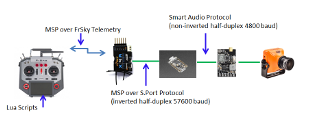
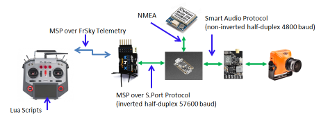
Added GPS

Changed region(s): [[0.0, 0.05, 0.9903, 0.95], [0.3495, 0.75, 0.699, 0.9], [0.4078, 0.1, 0.4951, 0.15]]

diff --git a/content/avrsa/avrsa.md b/content/avrsa/avrsa.md
@@ -17,6 +17,9 @@ This project is documented [here](https://github.com/c-devine/AvrSmartAudio) on 
 
 [![AvrSA](img/avrsa-overview-small.png)](https://raw.githubusercontent.com/c-devine/AvrSmartAudio/snapshots/assets/img/overview.png?raw=true "Overview")
 
+
+[![GPS](img/radio-gps-small.png)](https://raw.githubusercontent.com/c-devine/AvrSmartAudio/snapshots/assets/img/radio-gps.png?raw=true "Overview")
+
 ### Video
 
 [![Demo](img/youtube-prototype-small.png?raw=true)](https://www.youtube.com/watch?v=tcKi-m7yl1k "Adafruit Trinket Smart Audio Prototype on Breadboard")
